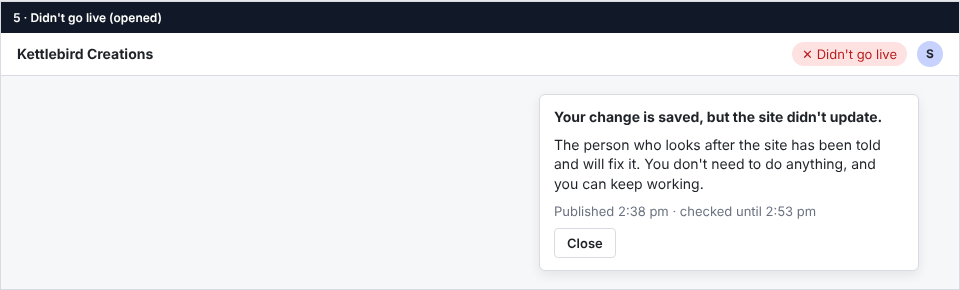
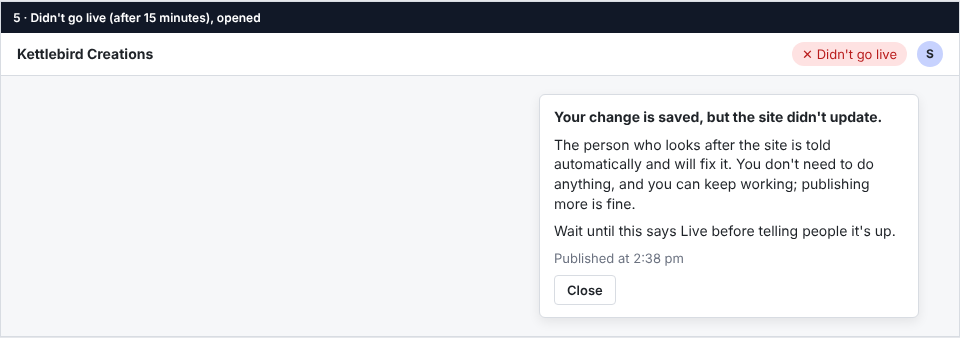
Revise the know-when-live design after its persona walkthrough
The status is worked out from Sanity and the site's /build-info.json
instead of remembered, so it survives reopening; a scheduled check tells
the lead of any failure; Removed from the site for deletions; a note
after Publish; 5-minute 'taking longer' message; seven mock-ups.

Claude-Session: https://claude.ai/code/session_01HWRLNSVAoX5Ni8d8XcwJh1

Changed region(s): [[0.0, 0.0, 1.0, 0.2793], [0.5625, 0.3103, 0.9375, 0.9621]]

diff --git a/docs/design/mockups/know-when-live/mockups.html b/docs/design/mockups/know-when-live/mockups.html
@@ -4,7 +4,7 @@
 <meta charset="utf-8">
 <title>Know when it's live: mock-ups</title>
 <!-- Source for the PNG mock-ups beside this file (docs/design/know-when-live.md). Low-fidelity: the
-     editor is Sanity Studio; this design adds the status at the top of it. Render: node render.mjs -->
+     editor is Sanity Studio; this design adds the status at the top of it and a short note after Publish. Render: node render.mjs -->
 <style>
   :root { --ink:#1f2328; --muted:#6b7280; --line:#d8dce2; --bg:#f6f7f9; --panel:#fff; --accent:#2563eb; --ok:#15803d; --okbg:#dcfce7; --err:#b91c1c; --errbg:#fee2e2; }
   * { box-sizing: border-box; }
@@ -27,40 +27,53 @@
 <body>
 
 <div class="frame" id="m1">
-  <h6>1 · Nothing published this visit: when the site last updated</h6>
-  <div class="top"><strong>Kettlebird Creations</strong><span class="right"><span class="status idle">Site updated today, 9:12 am</span><span class="avatar">S</span></span></div>
-  <div class="body">The editor, as usual. The status sits at the top right on every screen of the editor.</div>
+  <h6>1 · Straight after Publish: updating</h6>
+  <div class="top"><strong>Kettlebird Creations</strong><span class="right"><span class="status busy">◌ Updating the site…</span><span class="avatar">S</span></span></div>
+  <div class="body" style="display:flex;justify-content:flex-end"><div class="pop" style="margin:0"><p><strong>Published.</strong> Updating the site; the status at the top right says when it's live.</p></div></div>
 </div>
 
 <div class="frame" id="m2">
-  <h6>2 · Straight after Publish: updating</h6>
-  <div class="top"><strong>Kettlebird Creations</strong><span class="right"><span class="status busy">◌ Updating the site…</span><span class="avatar">S</span></span></div>
-  <div class="body">Usually a minute or two. Star can keep working, publish more, or close the editor; the update carries on.</div>
+  <h6>2 · Live, with the time the site finished updating</h6>
+  <div class="top"><strong>Kettlebird Creations</strong><span class="right"><span class="status ok">● Live · 2:41 pm</span><span class="btn">View on site</span><span class="avatar">S</span></span></div>
+  <div class="body">Stays like this, on every visit, until the next change. View on site opens the page the last change appears on.</div>
 </div>
 
 <div class="frame" id="m3">
-  <h6>3 · Live: the change can be seen on the site</h6>
-  <div class="top"><strong>Kettlebird Creations</strong><span class="right"><span class="status ok">● Live · 2:41 pm</span><span class="btn">View on site</span><span class="avatar">S</span></span></div>
-  <div class="body">View on site opens the page the last published change appears on (a chapter's first page, a gallery piece's portfolio, the home page for site text).</div>
+  <h6>3 · Several changes in a row</h6>
+  <div class="top"><strong>Kettlebird Creations</strong><span class="right"><span class="status busy">◌ Updating the site… (3 changes)</span><span class="avatar">S</span></span></div>
+  <div class="body">One Publish is one change, whatever it contains: a whole chapter with its pages is one.</div>
 </div>
 
 <div class="frame" id="m4">
-  <h6>4 · Several changes in a row</h6>
-  <div class="top"><strong>Kettlebird Creations</strong><span class="right"><span class="status busy">◌ Updating the site… (3 changes)</span><span class="avatar">S</span></span></div>
-  <div class="body">Star doesn't wait between them. The status turns Live once the site shows all of them; if one update was still running when the next was published, the site updates again and the status waits for that.</div>
+  <h6>4 · Taking longer than usual (after 5 minutes)</h6>
+  <div class="top"><strong>Kettlebird Creations</strong><span class="right"><span class="status busy">◌ Still updating, taking longer than usual…</span><span class="avatar">S</span></span></div>
+  <div class="body">Nothing to do yet; most updates take a minute or two.</div>
 </div>
 
 <div class="frame" id="m5">
-  <h6>5 · Didn't go live (opened)</h6>
+  <h6>5 · Didn't go live (after 15 minutes), opened</h6>
   <div class="top"><strong>Kettlebird Creations</strong><span class="right"><span class="status err">✕ Didn't go live</span><span class="avatar">S</span></span></div>
   <div class="body" style="display:flex">
     <div class="pop">
       <p><strong>Your change is saved, but the site didn't update.</strong></p>
-      <p>The person who looks after the site has been told and will fix it. You don't need to do anything, and you can keep working.</p>
-      <p class="meta">Published 2:38 pm · checked until 2:53 pm</p>
+      <p>The person who looks after the site is told automatically and will fix it. You don't need to do anything, and you can keep working; publishing more is fine.</p>
+      <p>Wait until this says Live before telling people it's up.</p>
+      <p class="meta">Published at 2:38 pm</p>
       <span class="btn">Close</span>
     </div>
   </div>
+</div>
+
+<div class="frame" id="m6">
+  <h6>6 · After unpublishing or deleting something</h6>
+  <div class="top"><strong>Kettlebird Creations</strong><span class="right"><span class="status ok">● Removed from the site · 2:41 pm</span><span class="avatar">S</span></span></div>
+  <div class="body">No View on site: there's nothing to view.</div>
+</div>
+
+<div class="frame" id="m7">
+  <h6>7 · Can't check (no connection)</h6>
+  <div class="top"><strong>Kettlebird Creations</strong><span class="right"><span class="status idle">? Can't check the site right now</span><span class="avatar">S</span></span></div>
+  <div class="body">Tries again every 15 seconds. Never shows Live without seeing it.</div>
 </div>
 
 </body>

diff --git a/docs/design/know-when-live.md b/docs/design/know-when-live.md
@@ -12,70 +12,103 @@ derived-from:
 
 <!-- docs/design/know-when-live.md. Design for story-content-editing-know-when-live. Mock-ups are in
 docs/design/mockups/know-when-live/ (PNG images, and mockups.html, the source they are rendered from
-with render.mjs). The status labels match design-comic-publish-pages, mock-up 5. -->
+with render.mjs). The status labels match design-comic-publish-pages, mock-up 5; the failure wording
+here replaces that design's and the publishing guide's (see "Other documents"). -->
 
 ## Personas
 
-- persona-artist: "not knowing when, or whether, a change has reached the live site" is one of Star's listed frustrations, and publishing straight after finishing a piece is how Star works (#goals). So publishing is the only step, and the editor always says where the latest change is: updating, live, or not live.
+- persona-artist: "not knowing when, or whether, a change has reached the live site" is one of Star's listed frustrations, and publishing straight after finishing a piece is how Star works (#goals). So publishing is the only step, and the editor always says where Star's latest change is: updating, live, removed, or not live.
 
 ## How it works
 
-- **Publishing starts an update.** When anything is published, unpublished, or deleted in the editor, Sanity tells Vercel to rebuild the site. There's no separate button.
-- **Each site build records when it read the content.** The build publishes a small file on the site (`/build-info.json`) with the moment it read the content from Sanity, by Sanity's clock. Any change published before that moment is in that build, deletions included.
-- **The editor reads that file.** The editor is served from the same site, so it reads the file directly: no password, key or other service is involved. While Star has a change waiting, it checks every 15 seconds.
-- **"Live" means the site has it.** The status turns **Live** when the site's file shows a build that read the content after Star's latest change was published (both times from Sanity, so Star's computer clock doesn't matter). Until then it reads **Updating the site…**.
-- **Failure.** If no build includes the change within 15 minutes of publishing, the status turns **Didn't go live**. The lead is told separately and in detail: Vercel emails the project's owner when a production build fails, with a link to the build's log. That email is the lead's notification; the editor's message tells Star it has been sent.
+- **Publishing starts an update.** Publishing, unpublishing, or deleting anything in the editor makes Sanity tell Vercel to rebuild the site. There's no separate button. One **Publish** is one change, whatever it contains: a chapter and all its pages are one document, so one update.
+- **Each site build records when it read the content.** The build reads the content straight from Sanity (not through Sanity's cache, which can lag), notes the moment it started reading by Sanity's clock, and, when the build finishes, publishes a small file on the site, `/build-info.json`, with that moment and the time the build finished. The file is never cached, so it always describes the site as it is.
+- **The status is worked out, not remembered.** The editor asks Sanity, with Star's sign-in, for the time of the latest change (any publish, unpublish, or delete), and reads `/build-info.json` from the site it's served from. If the site's build read the content after the latest change, the change is live. Because both come from the site and from Sanity, the status is the same in every tab, after closing the editor, and on another computer.
+- **Pages, not just the file.** The site is replaced all at once when a build finishes, so when `/build-info.json` is new, every page is. Images are stored by Sanity under new addresses when they change, so an old copy can't be shown in their place.
+- **The lead is told of any failure, separately.** A check outside the editor runs every 15 minutes (a scheduled GitHub workflow in the site's repository). It compares the latest published change in Sanity with the site's `/build-info.json`. If the site is more than 15 minutes behind, it opens an issue in the repository, which emails the lead, with the times and a link to Vercel's build log. It covers every way an update can fail, including a rebuild that never started. Vercel also emails the project owner when a build fails, as a second path.
 
 ## Flow
 
-1. Star publishes something (a chapter, a gallery piece, a text change). The status at the top right changes to **Updating the site…** (mock-up 2).
-2. About a minute or two later, it changes to **Live** with the time, and **View on site** appears beside it (mock-up 3).
-3. Star chooses **View on site** to see it on the site, in a new tab.
-4. If Star publishes more before the first update finishes, the status counts them, "Updating the site… (3 changes)" (mock-up 4), and turns **Live** once the site shows all of them.
-5. If the site doesn't update, the status reads **Didn't go live**; choosing it opens the explanation (mock-up 5). Star's change stays saved in the editor.
-6. On opening the editor with nothing waiting, the status shows when the site last updated, "Site updated today, 9:12 am" (mock-up 1).
+1. Star publishes something. A short note appears near **Publish**: "Published. Updating the site; the status at the top right says when it's live." The status at the top right changes to **Updating the site…** (mock-up 1).
+2. About a minute or two later, it changes to **Live** with the time the site finished updating, and **View on site** appears (mock-up 2). That time is when fans can see it.
+3. Star chooses **View on site** to see the change on the site, in a new tab.
+4. If Star publishes more before the first update finishes, the status counts the changes not yet live, "Updating the site… (3 changes)" (mock-up 3), and turns **Live** once the site shows all of them.
+5. After 5 minutes it reads **Still updating, taking longer than usual…** (mock-up 4). After 15 minutes without the change reaching the site, it reads **Didn't go live**; choosing it opens the explanation (mock-up 5). The change stays saved in the editor.
+6. After unpublishing or deleting, it reads **Removed from the site** with the time, and has no **View on site** (mock-up 6).
+7. On the next visit, the status shows the same state, worked out afresh: **Live** with the time and **View on site** for the last change, or **Updating** or **Didn't go live** if that's where it still is.
 
 ## Mock-ups
 
-Low-fidelity. The editor is Sanity Studio; this design adds only the status and **View on site** to its top bar. Source: `mockups/know-when-live/mockups.html`.
+Low-fidelity. The editor is Sanity Studio; this design adds the status and **View on site** to its top bar, and the short note after **Publish**. In Sanity, **Publish** is at the bottom of the open item, not in the top bar, which is why the note appears there. Source: `mockups/know-when-live/mockups.html`.
 
 | # | State | File |
 |---|---|---|
-| 1 | Nothing waiting: when the site last updated | `mockups/know-when-live/1-idle.png` |
-| 2 | Straight after **Publish**: **Updating the site…** | `mockups/know-when-live/2-updating.png` |
-| 3 | **Live** with the time, and **View on site** | `mockups/know-when-live/3-live.png` |
-| 4 | Several changes in a row | `mockups/know-when-live/4-several.png` |
-| 5 | **Didn't go live**, opened | `mockups/know-when-live/5-failed.png` |
+| 1 | Straight after **Publish**: the note, and **Updating the site…** | `mockups/know-when-live/1-updating.png` |
+| 2 | **Live** with the time, and **View on site** | `mockups/know-when-live/2-live.png` |
+| 3 | Several changes in a row | `mockups/know-when-live/3-several.png` |
+| 4 | After 5 minutes: **Still updating, taking longer than usual…** | `mockups/know-when-live/4-slow.png` |
+| 5 | After 15 minutes: **Didn't go live**, opened | `mockups/know-when-live/5-failed.png` |
+| 6 | After unpublishing or deleting: **Removed from the site** | `mockups/know-when-live/6-removed.png` |
+| 7 | **Can't check the site right now** | `mockups/know-when-live/7-cant-check.png` |
 
 ## Layout
 
 - The status sits at the top right of the editor, before Star's account circle, on every screen. It replaces nothing.
-- Times are in Star's own time zone: "2:41 pm" today, "Yesterday, 2:41 pm", or a date for older updates.
-- **View on site** opens, in a new tab, the page the last published change appears on: a chapter's first page in the reader, a gallery piece's portfolio, a comic series' page, the home page for site text, and the home page for anything without a page of its own. It stays until Star publishes again.
-- **Live** stays green until the next publish; on the next visit to the editor it becomes "Site updated …" (mock-up 1).
+- Times are in Star's own time zone: "2:41 pm" today, "Yesterday, 2:41 pm", or a date for older changes.
+- **View on site** opens, in a new tab, the page the last change appears on: a chapter's first page in the reader; a comic series' page; a gallery piece's portfolio; the about page for about-page text; the commissions page for commission status and prices; the shop for a product; the home page for the home page's text and the social links.
+- **Didn't go live** is a button: choosing it opens the explanation, which **Close** or Escape closes.
 
 ## States and errors
 
-- **Updating** (mock-up 2): Star can keep working, publish more, or close the editor. The update carries on without the editor open; the next visit shows the result.
-- **Several changes** (mock-up 4): Star never waits between changes. If an update is already running when another change is published, the site updates again afterwards; the status waits for the update that includes the newest change.
-- **Didn't go live** (mock-up 5): "Your change is saved, but the site didn't update. The person who looks after the site has been told and will fix it. You don't need to do anything, and you can keep working." With the time of publishing and how long the editor waited. Publishing again later is safe: the next successful update includes everything.
-- **Can't check** (no connection, or the file can't be read): the status reads **Can't check the site right now** in grey, and tries again; it never claims **Live** without seeing it.
-- **Unpublishing or deleting** something counts as a change: **Live** then means it's gone from the site, and **View on site** isn't shown.
-- **Slow updates:** most take a minute or two. A slow one that finishes after 15 minutes turns **Didn't go live** into **Live** on its own the next time the editor checks.
+- **Updating** (mock-up 1): Star can keep working, publish more, or close the editor; the update carries on without it.
+- **Several changes** (mock-up 3): Star never waits between changes. If an update is running when another change is published, the site updates again afterwards, and the status waits for the update that includes the latest change. The 5- and 15-minute times count from the latest change.
+- **Taking longer** (mock-up 4): after 5 minutes. Nothing for Star to do.
+- **Didn't go live** (mock-up 5): "Your change is saved, but the site didn't update. The person who looks after the site is told automatically and will fix it. You don't need to do anything, and you can keep working; publishing more is fine. Wait until this says Live before telling people it's up." When the lead fixes it, the status turns **Live** on its own.
+- **Removed** (mock-up 6): for unpublishing or deleting. **Live** never means "gone".
+- **Can't check** (mock-up 7): no connection, or the site's file can't be read. It tries again every 15 seconds, and never shows **Live** without seeing it.
+- **Drafts:** the status is about published changes only. A saved but unpublished draft shows Sanity's own "not published" mark on the item, and isn't counted.
+- **The editor itself updates too.** The editor is part of the site, so a content update republishes it. Its files are named by their content, so a content-only update leaves them identical and an open editor carries on. When the editor's own code changes, Sanity shows its notice to reload.
 
 ## Accessibility
 
 - The status is text with an icon, never colour alone.
 - Changes to the status are announced to screen readers, politely (they don't interrupt).
-- **View on site** and **Didn't go live** are buttons reachable by keyboard; the explanation opens as a small panel that **Close** or Escape closes.
+- **View on site** and **Didn't go live** are buttons reachable by keyboard; the explanation closes with **Close** or Escape.
+
+## Other documents
+
+The failure wording here ("is told automatically", "publishing more is fine", "wait until this says Live") replaces the shorter wording in design-comic-publish-pages (mock-up 5) and in Star's publishing guide. Both will be updated with Star's guide to this story. That design and the guide also put **Publish** in the top bar; in Sanity it's at the bottom of the open item, and they'll be corrected at the same time.
 
 ## For the spec to check
 
-- Sanity's webhooks can call Vercel's deploy hook on publish, unpublish and delete of published documents only (not on every draft keystroke), on the free plan.
-- Vercel's handling of deploy hooks called while a build is running (queued, or the running one cancelled), so the last change is always built.
-- Vercel's email on a failed production deployment is on for the project owner, and links to the log.
-- The Studio's top bar can be extended with a component (the navbar), and it can read `/build-info.json` from its own origin.
+- Sanity's webhooks can call Vercel's deploy hook on publish, unpublish, and delete of published documents only (not drafts), on the free plan, and whether Sanity reports failed deliveries.
+- Vercel's handling of deploy hooks called while a build is running (queued, or the running one cancelled), and its plan's limits on builds per day.
+- The editor can get the time of the latest change, deletions included, from Sanity with Star's sign-in.
+- The build reads Sanity's live API, not its cache, and `/build-info.json` is served uncached.
+- The Studio's top bar can be extended (its navbar component) on every screen, and a note can follow **Publish**.
+- The editor's file names stay the same across content-only builds.
+- A scheduled GitHub workflow can read `/build-info.json` and Sanity's latest change, and open an issue; GitHub runs schedules every 15 minutes or so, sometimes later.
 
 ## Open questions
 
-1. Is 15 minutes the right wait before **Didn't go live**? Builds take about a minute today; it allows for slow days without leaving Star wondering for long.
+1. Are 5 and 15 minutes right? Builds take about a minute today.
+
+## Persona walkthrough
+
+A walkthrough for persona-artist (2026-11-01) opened each mock-up and checked the story's criteria and the comic design and guide. It found no blocking problems, five misleading ones and nine slower ones. All are addressed above:
+- **Misleading:**
+  - the editor promised the lead was told, without knowing it (now a separate check that does tell them);
+  - a failure disappeared after reopening the editor (the status is now worked out from the site and Sanity);
+  - **Live** after a deletion (now **Removed from the site**);
+  - which time **Live** shows (when the site finished updating);
+  - whether **Live** proves the pages changed (an uncached file, a live read, and atomic deploys).
+- **Slower:**
+  - what one change is;
+  - noticing the status far from **Publish** (the note after **Publish**);
+  - the explanation's wording;
+  - where **View on site** goes;
+  - mock-ups for every state;
+  - the editor republishing itself;
+  - a long wait with no sign (the 5-minute message);
+  - drafts;
+  - wording that differed from the comic design and the guide (see "Other documents").
